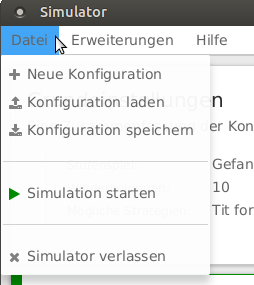
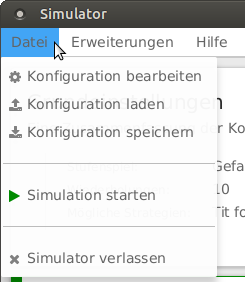
Aktuallisierung und Fehlerkorrekturen bei den GUI-Entwürfen

diff --git a/Dokumente/pflichtenheft/pflichtenheft.tex b/Dokumente/pflichtenheft/pflichtenheft.tex
@@ -719,7 +719,7 @@ Im oberen Drittel des Fensters wird eine Zusammenfassung der aktuell ausgewählt
  
 \begin{figure}[ht]
 	\centering
- 	\includegraphics{images/main_btn.png}
+ 	\includegraphics[width=0.25\linewidth]{images/main_btn.png}
  	\caption{\label{fig:main_btn}
  		Knöpfe zum Konfigurieren und Starten einer Simulation}
 \end{figure}
@@ -750,7 +750,7 @@ Im unteren Teil des Fenster befindet sich links eine Historie der gelaufenen, ab
 		Ausgabe der Ergebnisse einer Simulation}
 \end{figure}
 \newpage
-Über das Dateinmenü in der Menüleiste können Konfigurationen gespeichert und geladen oder eine Simulation gestartet werden (siehe \cref{fig:menu1}).
+Über das Dateinmenü in der Menüleiste können Konfigurationen bearbeitet, gespeichert und geladen oder eine Simulation gestartet werden (siehe \cref{fig:menu1}).
 Das Erweiterungsmenü enthält Optionen zum erstellen eines neuen Stufenspiels oder einer neuen Strategie (siehe \cref{fig:menu2}). Im Hilfemenü finden sich Bedienhilfen und Informationen über den Simulator (siehe \cref{fig:menu3}).
 
 \begin{figure}[ht]
@@ -787,9 +787,14 @@ Das Konfigurationsfenster ist in drei Bereiche unterteilt, die jeweils ein- und 
 	\item Erweiterte Einstellungen
 \end{itemize}
 
-Grundeinstellungen konfigurieren die fundamentalsten Simulationsparameter (siehe \cref{fig:konfig_main}).
+Grundeinstellungen konfigurieren die fundamentalsten Simulationsparameter. Im rechten Teil wird das ausgewählte Stufenspiel in Normalform als Bimatrix dargestellt (siehe \cref{fig:konfig_main}). Über ein spezielles Dropdownmenü mit Checkboxen können für die Simulation zugelassene Strategien ausgewählt werden (siehe \cref{fig:konfig_strat_detail}).
 
-In den Gruppeneinstellungen können Gruppen angelegt und mit einem Multislider die Agenten frei in diese verteilt werden. Für jede Gruppe gibt es einen Tab (siehe \cref{fig:konfig_group}). Dort kann die Gruppe in gleicher Weise weiter in Segmente eingeteilt werden. Für jedes Segment kann das Startkapital der Agenten gemäß einer gewählten Verteilung festgelegt werden (siehe \cref{fig:konfig_cap} und die Initialstrategien eingestellt werden (siehe \cref{fig:konfig_strat}).
+\begin{figure}[ht]
+	\centering
+	\includegraphics[width=0.25\textwidth]{images/konfig_strat_detail.png}
+	\caption{\label{fig:konfig_strat_detail}
+		Auswahl der zugelassenen Strategien}
+\end{figure}
 
 \begin{figure}[ht]
 	\centering
@@ -797,6 +802,10 @@ In den Gruppeneinstellungen können Gruppen angelegt und mit einem Multislider d
 	\caption{\label{fig:konfig_main}
 		Grundeinstellungen im Konfigurationsfenster}
 \end{figure}
+\newpage
+In den Gruppeneinstellungen können Gruppen angelegt und mit einem Multislider die Agenten frei in diese verteilt werden. Für jede Gruppe gibt es einen Tab (siehe \cref{fig:konfig_group}). Dort kann die Gruppe in gleicher Weise weiter in Segmente eingeteilt werden. Für jedes Segment kann das Startkapital der Agenten gemäß einer gewählten Verteilung festgelegt werden (siehe \cref{fig:konfig_cap} und die Initialstrategien eingestellt werden (siehe \cref{fig:konfig_strat}).
+
+
 
 \begin{figure}[ht]
 	\centering
@@ -808,13 +817,11 @@ In den Gruppeneinstellungen können Gruppen angelegt und mit einem Multislider d
 
 In den erweiterten Einstellungen können spezialisierte Konfigurationen per Dropdowns eingestellt werden. Zudem kann hier der variable Konfigurationsparameter eingestellt werden, falls dieser in den Gruppen- bzw. Segementeinstellungen ausgewählt wurde. Dazu wird ein prozentualer Start- und Endwert angegeben und eine Schrittweite festgelegt \\(siehe \cref{fig:konfig_adv}). Hierdurch wird eine Multikonfiguration erstellt.
 
-
-\newpage
-Am oberen Rand des Konfigurationsfenster befindet sich das gleiche Menü wie beim Hauptfenster (siehe \cref{fig:menu} und darunter eine Werkzeugleiste (siehe \cref{fig:konfig_tool}). Über die Werkzeugleiste ist es möglich, Konfigurationen zu laden, zu speichern und die aktuelle Konfiguration auf die Standardwerte zurückzusetzen.\\Darüber hinaus gibt es hier Knöpfe zum Erstellen neuer Stufenspiele und Strategien. Eine Simulation mit der gewählten Konfiguration kann über die Werkzeugleiste gestartet werden.
+Am oberen Rand des Konfigurationsfenster befindet sich das gleiche Menü wie beim Hauptfenster (siehe \cref{fig:menu}) und darunter eine Werkzeugleiste (siehe \cref{fig:konfig_tool}). Über die Werkzeugleiste ist es möglich, Konfigurationen zu laden, zu speichern und die aktuelle Konfiguration auf die Standardwerte zurückzusetzen.\\Darüber hinaus gibt es hier Knöpfe zum Erstellen neuer Stufenspiele und Strategien. Eine Simulation mit der gewählten Konfiguration kann über die Werkzeugleiste gestartet oder das Konfigurationsfenster verlassen werden.
 
 \begin{figure}[ht]
 	\centering
-	\includegraphics[width=\textwidth]{images/konfig_tool.png}
+	\includegraphics[width=0.5\textwidth]{images/konfig_tool2.png}
 	\caption{\label{fig:konfig_tool}
 		Werkzeugleiste des Konfigurationsfenster}
 \end{figure}
